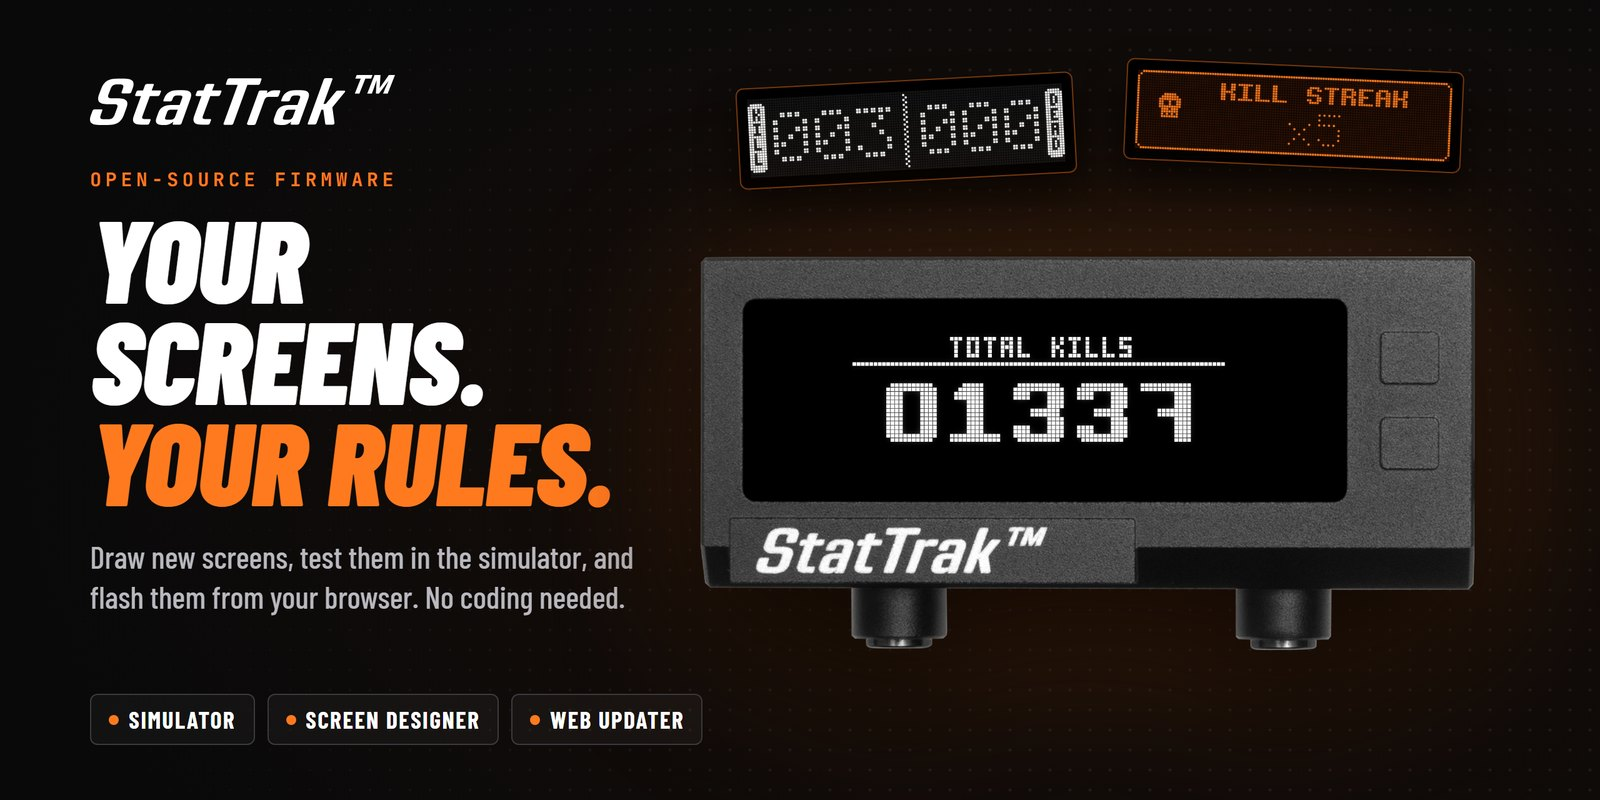
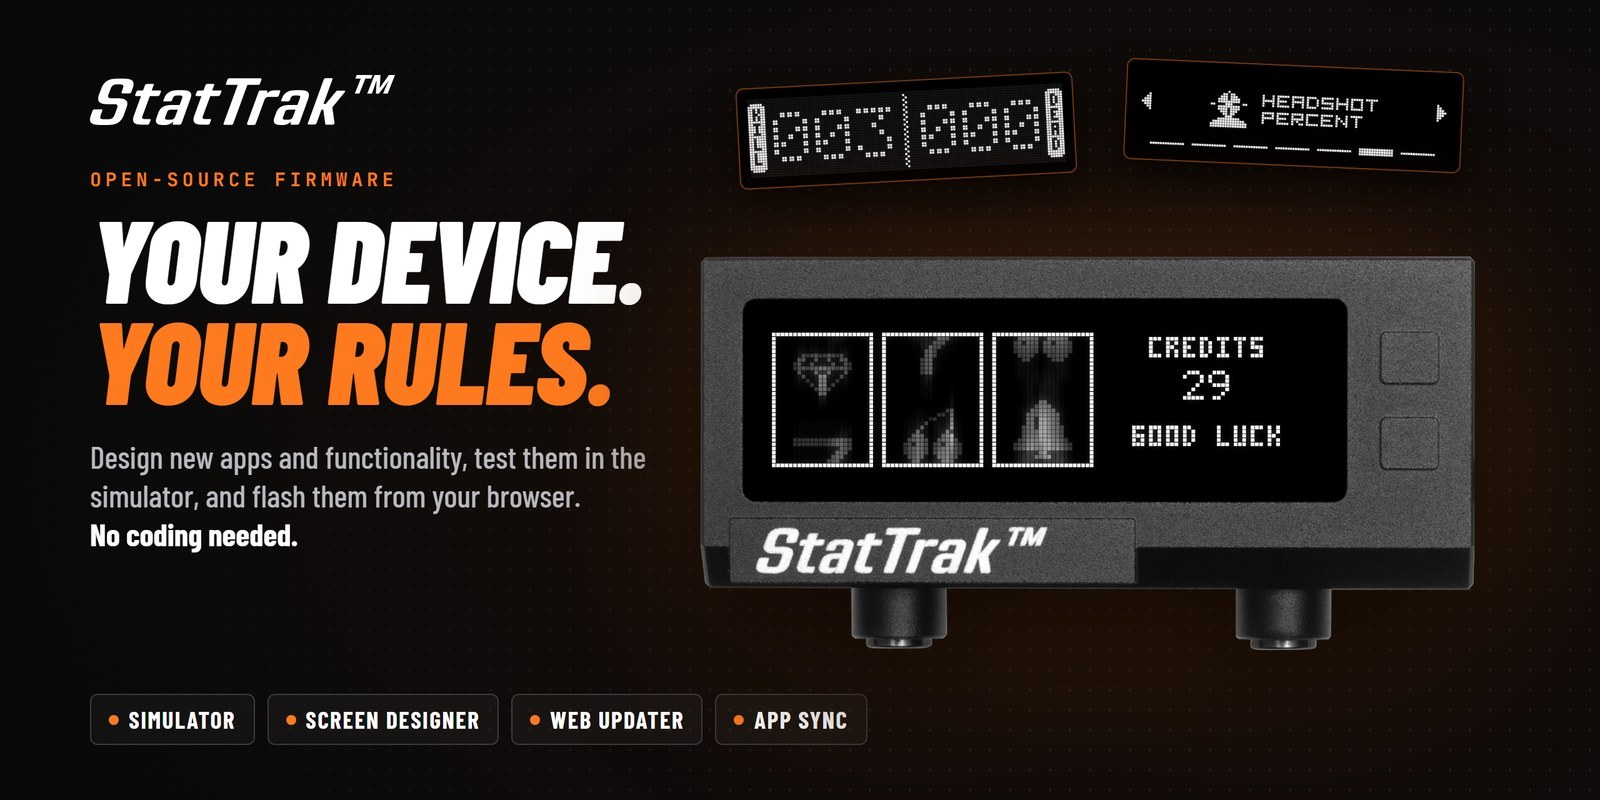
README: Apps and App Sync, the new title picture, shop links
- Title picture: "Your device. Your rules." on one line each, the SLOTS app mid spin on the
  device, a white app menu screen in place of the orange kill streak screen, "Design new
  apps and functionality", and an App Sync chip.
- New section "Apps and App Sync": what an app is, how to install one (with screenshots of
  the Apps tab and the question on the device), sort / hide / delete, the apps of the
  catalog, and how to make your own app.
- Links to the StatTrak page of the TRIDOS shop where the device is named.
- The button table points to the new section; developer commands and folders for apps.

diff --git a/README.md b/README.md
@@ -1,16 +1,17 @@
 <p align="center">
-  <img src="docs/images/title.jpg" alt="StatTrak open firmware: your screens, your rules" width="100%">
+  <img src="docs/images/title.jpg" alt="StatTrak open firmware: your device, your rules" width="100%">
 </p>
 
 <p align="center">
-  <b>The open firmware of the StatTrak kill counter by TRIDOS.DESIGN x JZ.</b><br>
-  Change it, add your own screens, and put your version on your own device.<br>
+  <b>The open firmware of the <a href="https://tridos.design/products/stattrak-hit-counter">StatTrak kill counter</a> by TRIDOS.DESIGN x JZ.</b><br>
+  Change it, add your own apps and functions, and put your version on your own device.<br>
   <b>You do not have to be a programmer.</b>
 </p>
 
 <p align="center">
   <a href="#-start-in-5-minutes">Get started</a> ·
   <a href="#-the-web-updater">Web Updater</a> ·
+  <a href="#-apps-and-app-sync">Apps</a> ·
   <a href="#-the-screen-designer">Screen Designer</a> ·
   <a href="#-how-to-use-the-device">Use the device</a> ·
   <a href="docs/SAFETY.md">Safety</a>
@@ -20,23 +21,30 @@
 
 ## What is this?
 
-StatTrak is a small kill counter for airsoft. It mounts on your replica and counts your kills
-and deaths. This repository is the software inside it: the **firmware**.
+[StatTrak](https://tridos.design/products/stattrak-hit-counter) is a small kill counter for
+airsoft. It mounts on your replica and counts your kills and deaths. This repository is the
+software inside it: the **firmware**.
 
 The firmware is open. An **AI coding tool** does the technical work on your computer. You tell
 it what you want, it shows you pictures of the result, and you decide.
 
 <p align="center">
-  <img src="docs/images/product.jpg" alt="StatTrak on a Picatinny rail, with a PEQ box, and the DIY edition on a battery" width="100%">
+  <a href="https://tridos.design/products/stattrak-hit-counter"><img src="docs/images/product.jpg" alt="StatTrak on a Picatinny rail, with a PEQ box, and the DIY edition on a battery" width="100%"></a>
 </p>
 
-You get three tools:
+<p align="center">
+  No StatTrak yet? <a href="https://tridos.design/products/stattrak-hit-counter"><b>Get one in the TRIDOS shop</b></a>.
+  You can try everything in the simulator first.
+</p>
+
+You get four tools:
 
 | Tool | What it does |
 | --- | --- |
 | 🖥 **Simulator** | Runs the real firmware on your computer. You see each change before it goes on the device. |
 | ✏ **Screen Designer** | Draw your own screens on the real 128 × 32 pixels, then send them to your AI tool. |
 | 📡 **Web Updater** | Puts a firmware file on your StatTrak over Bluetooth, from your browser. Nothing to install. |
+| 🧩 **App Sync** | Installs apps (small games and tools) on your StatTrak from your browser. No firmware update. |
 
 > [!WARNING]
 > **You change the firmware at your own risk.** A faulty firmware can make a device unusable
@@ -89,6 +97,7 @@ I may not be a programmer. Use plain words.
 - *"Add a screen that shows a skull for two seconds after each tenth kill."*
 - *"Make the numbers larger."*
 - *"Add a second counter for headshots."*
+- *"Make an app: a small game for the break between two rounds."*
 
 The device has two buttons, a small display, a buzzer and Bluetooth. It has no clock and no
 internet. The AI tool tells you when an idea cannot work, and why.
@@ -97,7 +106,8 @@ internet. The AI tool tells you when an idea cannot work, and why.
 and shows you the pictures. You pick one. Then it builds the feature and shows it in the
 simulator. Only when you are happy, it makes the firmware file for your device.
 
-**5. Put it on your StatTrak** with the [Web Updater](#-the-web-updater).
+**5. Put it on your StatTrak.** A firmware change goes on with the
+[Web Updater](#-the-web-updater). An app goes on with [App Sync](#-apps-and-app-sync).
 
 ---
 
@@ -176,6 +186,82 @@ More about the page: [updater/README.md](updater/README.md).
 
 ---
 
+## 🧩 Apps and App Sync
+
+Your StatTrak can run **apps**, like a watch. An app is a small file (1 to 4 KB): a game, a
+timer, a different counter. You install it over Bluetooth from your browser, in the **Apps**
+tab of the Web Updater. The firmware stays the same, so an app install takes a few seconds. The
+firmware checks each app, and an app runs in a closed box: it cannot touch the firmware update,
+Bluetooth or the power.
+
+<p align="center">
+  <img src="docs/images/apps-screens.png" alt="Apps: SYNC on the device, the SLOTS app in the app menu, and the SLOTS game" width="100%">
+</p>
+
+> [!NOTE]
+> Apps need a firmware with the app menu. If the page says **Update the firmware first**,
+> install the newest firmware with the [Web Updater](#-the-web-updater) first.
+
+### Install an app
+
+1. **On the StatTrak:** Settings, then `Apps: SYNC`, hold button 2. The display shows
+   `APP SYNC` and `WAITING`.
+2. **On the computer:** open <https://stattrak.tridos.design/#apps> (the **Apps** tab), click
+   **Connect** and pick your StatTrak.
+3. Click **Install** next to an app.
+4. **Answer on the StatTrak.** It asks `INSTALL <NAME>?`. Hold button 2 for yes, or button 1 for
+   no. The page sends nothing before your yes.
+
+<table>
+  <tr>
+    <td width="50%"><img src="docs/images/apps-ask.png" alt="The page shows the question on the device: INSTALL REACTION?"></td>
+    <td width="50%"><img src="docs/images/apps-done.png" alt="Installed: SYNC MORE or OPEN on the device"></td>
+  </tr>
+  <tr>
+    <td><b>The question.</b> The page shows what your StatTrak shows. The button to hold is orange.</td>
+    <td><b>Installed.</b> On the StatTrak: <b>SYNC MORE</b> (button 1) to install one more app, or <b>OPEN</b> (button 2) to play now.</td>
+  </tr>
+</table>
+
+### Sort, hide and delete
+
+The Apps tab shows all apps on your StatTrak, in the order of the app menu. You can:
+
+- move an app up or down (drag it, or use the arrows),
+- hide an app from the menu, or show it again,
+- change the settings of an app (the gear),
+- delete an app (the bin). The built-in apps stay.
+- give your StatTrak its own Bluetooth name, so you find it fast when there are more StatTraks.
+
+The bar at the top shows how much of the 24 KB for apps you use. `SETTINGS` is always the last
+app in the menu, so you can always get to the firmware update.
+
+<p align="center">
+  <img src="docs/images/apps-list.png" alt="The Apps tab: the apps on the device, with show / hide, arrows, settings and delete, and the apps to add" width="80%">
+</p>
+
+### The apps you can install now
+
+| App | What it does |
+| --- | --- |
+| **HEADSHOT %** | Counts kills and headshots and shows the headshot percentage. |
+| **REACTION** | A reaction game: wait for GO, then press a button as fast as you can. |
+| **ROUND TIMER** | Times each round, and beeps at the end. |
+| **RUNNER** | An endless runner: jump over the cacti. The game gets faster. |
+| **SLOTS** | A slot machine. Three the same wins, with confetti and a song on the buzzer. |
+| **WALLPAPER** | Looks like the big KILLS counter, but shows your own number. |
+
+### Make your own app
+
+Tell your AI coding tool what the app must do, for example *"Make an app that counts down
+from 10 minutes and beeps at the end."* The AI tool writes the app, tests it in the simulator
+and shows you the screens. Then you install the file with **From file** in the Apps tab.
+You can also share your app with other StatTrak owners: see [Share what you made](#-share-what-you-made).
+
+The details for AI tools and developers: [docs/APPS.md](docs/APPS.md).
+
+---
+
 ## 🎮 How to use the device
 
 <p align="center">
@@ -189,7 +275,7 @@ More about the page: [updater/README.md](updater/README.md).
 | App menu: button 1 / button 2 | Previous / next app |
 | App menu: both buttons, or wait 3 seconds | Open the selected app |
 | App menu: hold button 2 | The settings of the selected installed app (if it has settings) |
-| Settings: `Apps: SYNC`, hold button 2 | Connect to the "Apps" part of the web updater: install, delete, sort and hide apps, and give the device its own Bluetooth name (8 characters). A new app asks "INSTALL <NAME>?" before it is sent: hold button 2 = yes, hold button 1 = no (the button fills while you hold it). After the install: button 1 = SYNC MORE, button 2 = OPEN the app |
+| Settings: `Apps: SYNC`, hold button 2 | App Sync: install and sort apps from your browser (see [Apps and App Sync](#-apps-and-app-sync)) |
 | App: a fast game (RUNNER) | It reacts when the button goes down. Other apps get a press after the release |
 | Total view: short press | +1 kill. Long press: -1 kill |
 | Kill/death view: button 1 / button 2 | +1 kill / +1 death. Long press: -1 |
@@ -226,6 +312,8 @@ python tools/check.py              # safety check, build, unit tests, simulator 
 python tools/sim.py --tour         # a picture of each main view in out/
 python tools/sim.py boot click1 click1 frame   # 2 kills, print the display as text
 python tools/design.py render designs/example.json   # pictures of a screen design
+python tools/app.py build apps/slots/slots.sts       # an app: script -> .stapp package
+python tools/app.py sim apps/slots/slots.sts         # open the web simulator with the app
 python tools/setup.py firmware     # install ESP-IDF v5.4 (4 GB). Not necessary with Docker.
 python tools/build.py              # tests + firmware build -> build/stattrak.bin
 ```
@@ -239,13 +327,14 @@ python tools/build.py              # tests + firmware build -> build/stattrak.bi
 
 ```
 main/          application: start sequence, views, settings, storage, battery, Bluetooth commands
-components/    graphics, animation, display driver, Bluetooth, firmware update
+components/    graphics, animation, display driver, Bluetooth, firmware update, app engine
 designs/       screen design files
+apps/          example apps (StatTrak Script, docs/APPS.md)
 sim/           simulator: the firmware on a computer (headless, window, web)
 tests/         tests: full firmware in the simulator, and unit tests
-tools/         setup.py, check.py, check_safety.py, sim.py, design.py, build.py
-updater/       the web updater: the page that sends a firmware file to the device
-docs/          SAFETY.md, BLUETOOTH.md, DESIGNS.md, AUDIT.md, ROADMAP.md, images/
+tools/         setup.py, check.py, check_safety.py, sim.py, design.py, app.py, build.py
+updater/       the web updater: the page that sends a firmware file or an app to the device
+docs/          SAFETY.md, BLUETOOTH.md, DESIGNS.md, APPS.md, AUDIT.md, ROADMAP.md, images/
 ```
 
 </details>
@@ -260,6 +349,7 @@ docs/          SAFETY.md, BLUETOOTH.md, DESIGNS.md, AUDIT.md, ROADMAP.md, images
 | [CONTRIBUTING.md](CONTRIBUTING.md) | How to share a feature or an idea |
 | [docs/SAFETY.md](docs/SAFETY.md) | How a device can get bricked, and how to prevent it |
 | [docs/DESIGNS.md](docs/DESIGNS.md) | Screen design files |
+| [docs/APPS.md](docs/APPS.md) | Apps: the app file, the app engine and App Sync |
 | [docs/BLUETOOTH.md](docs/BLUETOOTH.md) | Bluetooth for your own features |
 | [sim/README.md](sim/README.md) | The simulator |
 | [updater/README.md](updater/README.md) | The Web Updater |
@@ -268,7 +358,8 @@ docs/          SAFETY.md, BLUETOOTH.md, DESIGNS.md, AUDIT.md, ROADMAP.md, images
 
 ## Who made it
 
-The firmware is by Janis Zaharans. The StatTrak kill counter is a product of TRIDOS.DESIGN x JZ.
+The firmware is by Janis Zaharans. The [StatTrak kill counter](https://tridos.design/products/stattrak-hit-counter)
+is a product of TRIDOS.DESIGN x JZ.
 
 ## License
 

diff --git a/docs/ROADMAP.md b/docs/ROADMAP.md
@@ -71,10 +71,11 @@ This repository (`trakaismikus/stattrak`) is private until these are done:
 
 ## Shipped
 
-- **2026-11: a README for people who do not code.** A title picture, product photos from the
-  TRIDOS shop, and sections with screenshots for "Start in 5 minutes", the Screen Designer,
-  the Web Updater and the device views (pictures in `docs/images/`). The developer commands
-  are in a section that opens on a click.
+- **2026-11: a README for people who do not code.** A title picture (the slot machine app on
+  the device), product photos and links to the StatTrak page of the TRIDOS shop, and sections
+  with screenshots for "Start in 5 minutes", the Screen Designer, the Web Updater, Apps and
+  App Sync, and the device views (pictures in `docs/images/`). The developer commands are in a
+  section that opens on a click.
 - **2026-11: app menu.** Both buttons open a menu of the apps (KILLS, KILLS + DEAD, STATS,
   SETTINGS) in place of "next view". Each app has a title picture; button 1 / 2 go to the
   previous / next app, both buttons or 3 seconds without a press open it. The app slides up and
